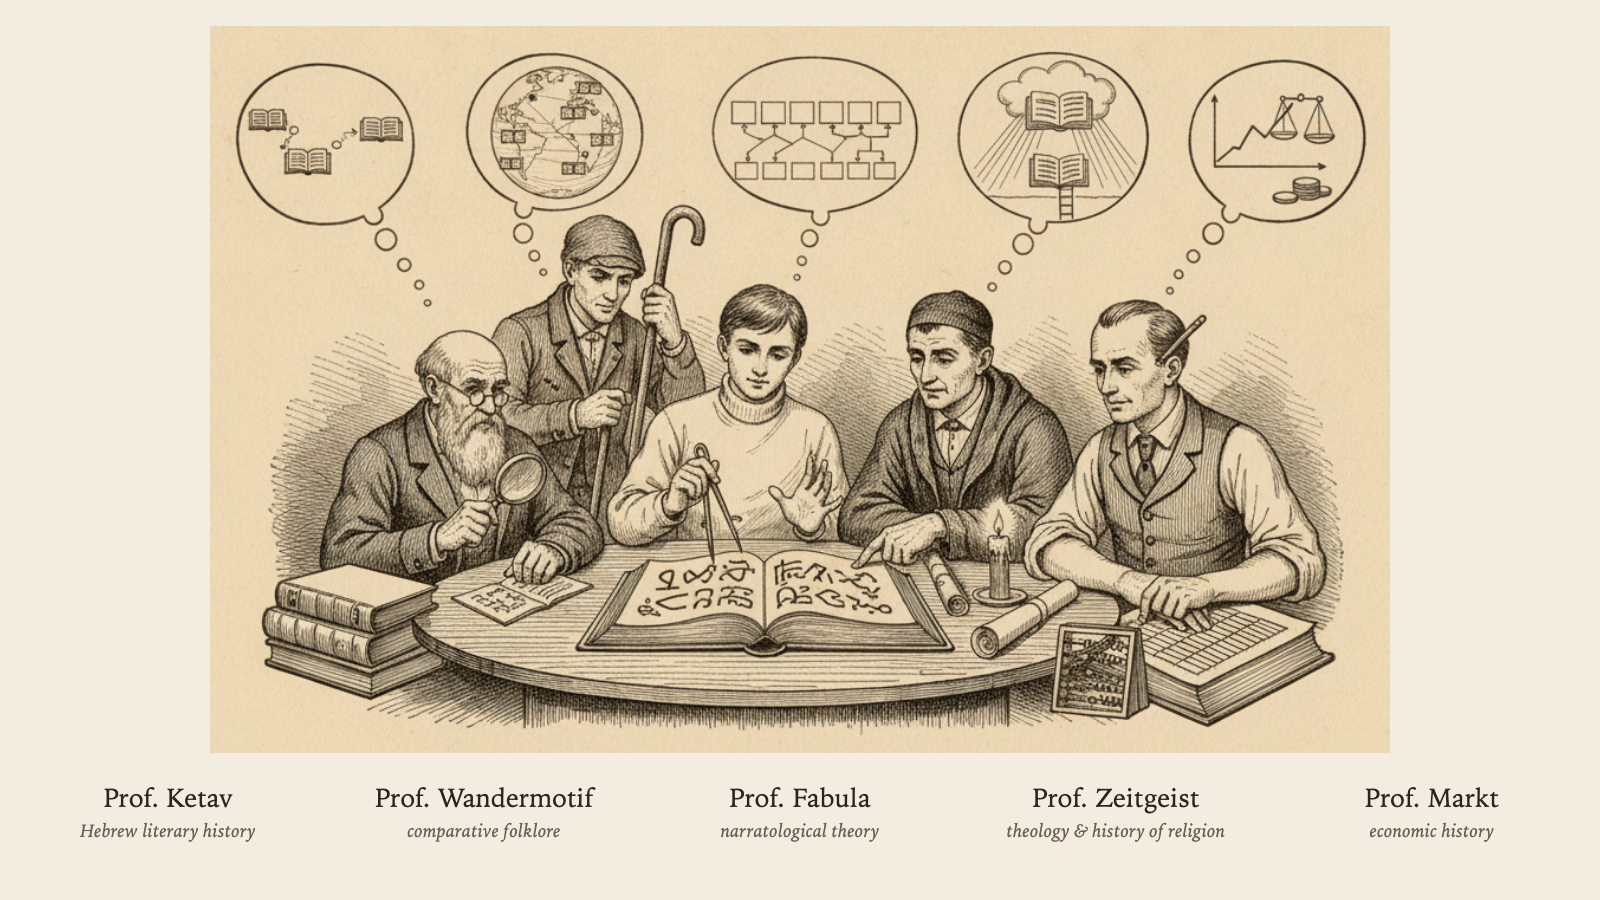
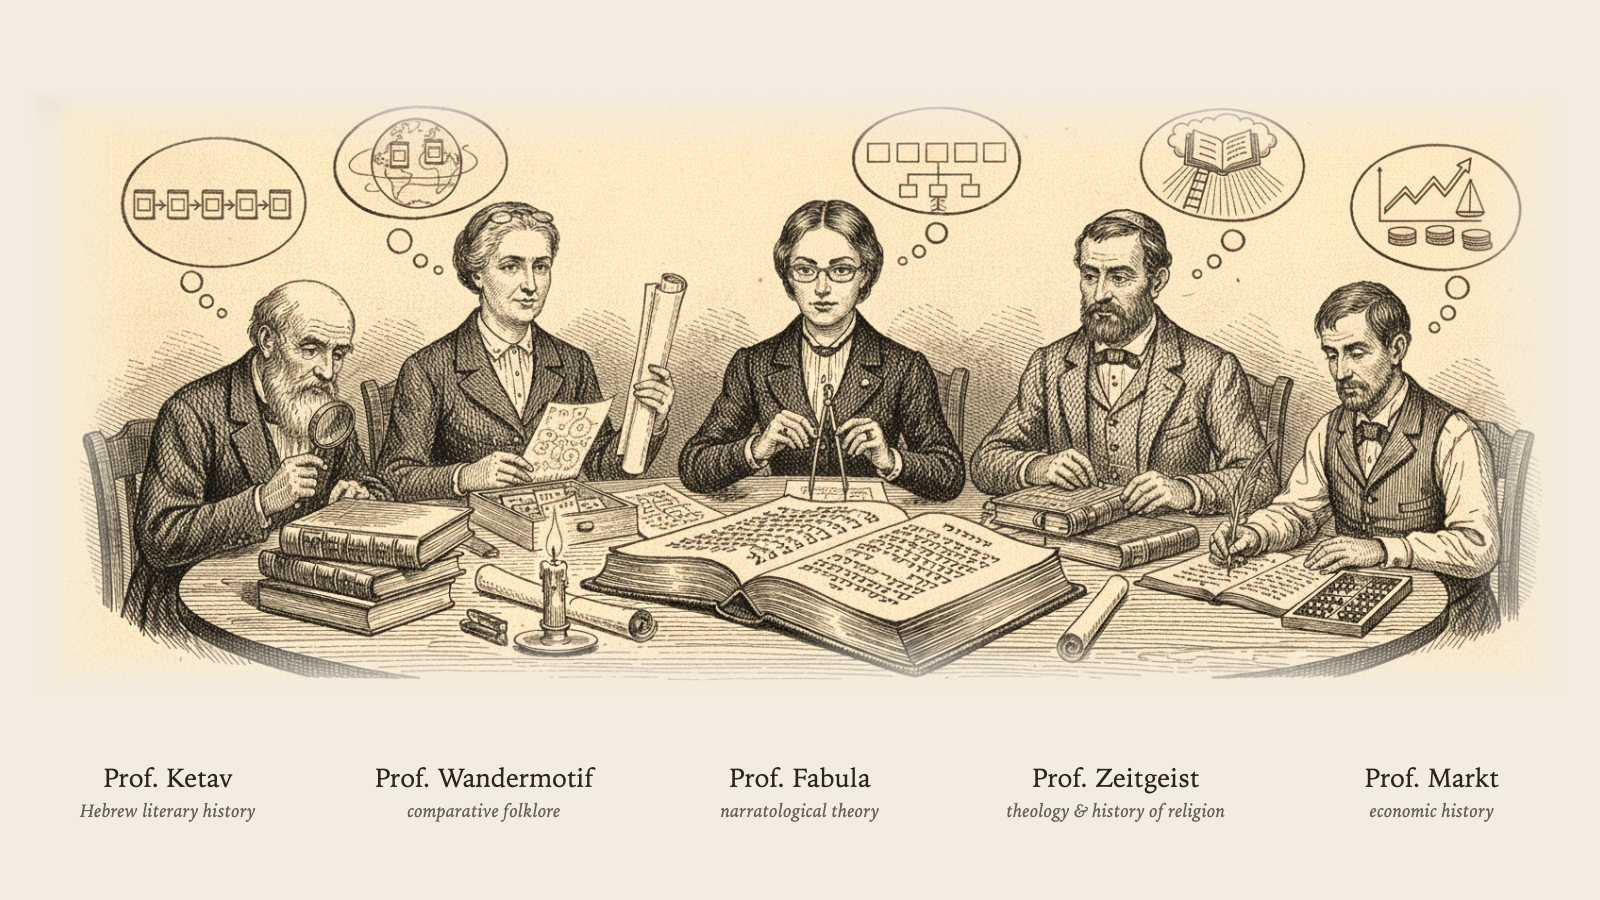
Personas slide: academic middle three, two women, Hasidic edition on the table
Three changes asked for after the first version:
  - the three middle scholars now read as modern academics, not Victorians
  - Fabula (narratology, centre) and Wandermotif (folklore) are women
  - the open book is now a Hasidic stories edition: thick worn leather,
    dense square Hebrew type in justified blocks, right to left

crops/chapter.jpg -- a real page from the print-machine slide -- is passed
to the model as a second reference image so it copies the actual typography
rather than inventing squiggles.

Pipeline: edit_table2.py (g1, g2) makes the people and book changes; g2 is
the keeper but its thought bubbles drifted, so edit_table3.py (h1, h2)
restores the five emblems in order; fix5.py (k1) puts the graph and coins
back in the economist's bubble. k1_plate.png is k1 with its paper lifted to
the slide cream and its edges feathered, so the plate no longer sits in a
visible rectangle (the CSS multiply blend is dropped for the same reason).

Gemini 2.5 Flash Image, 5 more images, ~$0.20; ~$0.43 for the slide so far.

diff --git a/talks/paris-inalco-2026-11/robot/table_slide.html b/talks/paris-inalco-2026-11/robot/table_slide.html
@@ -5,28 +5,23 @@
   html,body{margin:0;background:#F3EDE1}
   .slide{width:1600px;height:900px;position:relative;background:#F3EDE1;overflow:hidden;
          font-family:"Iowan Old Style","Palatino Linotype",Palatino,"Hoefler Text",Georgia,serif}
-  /* f2_crop.png is f2.png trimmed to its drawn content (998x615), so it can simply be
-     placed: no clipping band, nothing of the scene is cut off. */
-  .plate{position:absolute;left:50%;top:26px;transform:translateX(-50%);width:1180px;
-         mix-blend-mode:multiply}
-  .name{position:absolute;top:782px;text-align:center;width:310px;color:#2A2520;
+  /* k1_plate.png is k1.png with its paper lifted to the slide cream and its edges
+     feathered, so the plate melts into the slide instead of sitting in a rectangle.
+     Natively panoramic (1632x637, 2.56:1) and already fills its frame,
+     so it needs no crop: placed at 1540 wide it is 601 tall. */
+  .plate{position:absolute;left:50%;top:92px;transform:translateX(-50%);width:1540px;
+}
+  .name{position:absolute;top:762px;text-align:center;width:310px;color:#2A2520;
         font-size:26px;line-height:1.26;letter-spacing:.01em}
   .name i{display:block;font-size:18.5px;color:#6B6054;font-style:italic;margin-top:4px}
-  /* author names lettered onto the volumes on the table */
-  .auth{position:absolute;color:#4A4038;font-size:15px;font-style:italic;
-        letter-spacing:.05em;mix-blend-mode:multiply}
 </style></head><body>
 <div class="slide">
-  <img class="plate" src="f2_crop.png" alt="Five scholars examining one open book">
+  <img class="plate" src="k1_plate.png" alt="Five scholars examining one open Hasidic stories edition">
 
   <div class="name" style="left:13px">Prof. Ketav<i>Hebrew literary history</i></div>
   <div class="name" style="left:329px">Prof. Wandermotif<i>comparative folklore</i></div>
   <div class="name" style="left:645px">Prof. Fabula<i>narratological theory</i></div>
   <div class="name" style="left:961px">Prof. Zeitgeist<i>theology &amp; history of religion</i></div>
   <div class="name" style="left:1277px">Prof. Markt<i>economic history</i></div>
-
-  <!-- Author names were tried on the book spines (Genette / Propp / Braudel) but the
-       engraved cross-hatching makes type that small unreadable at slide size, and the
-       thought bubbles already carry each point of view. Left out deliberately. -->
 </div>
 </body></html>

diff --git a/talks/paris-inalco-2026-11/robot/horse_slide.html b/talks/paris-inalco-2026-11/robot/horse_slide.html
@@ -1,0 +1,37 @@
+<!doctype html>
+<html><head><meta charset="utf-8">
+<title>Shivhei ha-Besht 11 — the stolen horse</title>
+<style>
+  html,body{margin:0;background:#F3EDE1}
+  .slide{width:1600px;height:900px;position:relative;background:#F3EDE1;overflow:hidden;
+         font-family:"Iowan Old Style","Palatino Linotype",Palatino,"Hoefler Text",Georgia,serif}
+  /* Four wordless engraved panels (h*_crop.png, each cropped to its drawn scene) in one
+     row. object-fit:contain so no panel is cut; multiply blends plate paper into the cream. */
+  .row{position:absolute;top:182px;left:50%;transform:translateX(-50%);
+       display:flex;gap:28px;align-items:flex-start}
+  .panel{width:352px;display:flex;flex-direction:column;align-items:center}
+  .num{color:#9C9183;font-size:18px;letter-spacing:.3em;margin-bottom:12px}
+  .panel img{display:block;width:352px;height:352px;object-fit:contain;mix-blend-mode:multiply}
+  .cap{margin-top:22px;text-align:center;color:#2A2520;font-size:24px;line-height:1.32}
+  .cap i{display:block;font-size:18px;color:#6B6054;font-style:italic;margin-top:6px}
+  .src{position:absolute;left:0;right:0;bottom:62px;text-align:center;
+       color:#8A7F70;font-size:19px;font-style:italic;letter-spacing:.02em}
+</style></head><body>
+<div class="slide">
+  <div class="row">
+    <div class="panel"><div class="num">I</div>
+      <img src="h1_crop.png" alt="A thief leads the horse out of the stable at night">
+      <div class="cap">The horse is stolen</div></div>
+    <div class="panel"><div class="num">II</div>
+      <img src="h2_crop.png" alt="A word escapes the Besht's mouth and surprises him">
+      <div class="cap">A word is flung from his mouth<i>&ldquo;the horse will be returned to him&rdquo;</i></div></div>
+    <div class="panel"><div class="num">III</div>
+      <img src="h3_crop.png" alt="The brother-in-law mocks him in the street">
+      <div class="cap">A year of mockery<i>&ldquo;Israel, have they returned your horse?&rdquo;</i></div></div>
+    <div class="panel"><div class="num">IV</div>
+      <img src="h4_crop.png" alt="A gentile rides up with a pipe and the horse looks in at the window">
+      <div class="cap">A light for his pipe<i>and at once he got down and returned it</i></div></div>
+  </div>
+  <div class="src">Shivhei ha-Besht, story 11</div>
+</div>
+</body></html>

diff --git a/talks/paris-inalco-2026-11/robot/gen_horse.py b/talks/paris-inalco-2026-11/robot/gen_horse.py
@@ -1,0 +1,94 @@
+"""Four wordless comic panels for Shivhei ha-Besht no. 11 (the stolen horse).
+
+Same house style as m1_press_engraving.png and f2.png (the five-scholars table plate):
+19th-century wood engraving, black ink cross-hatching on warm cream paper.
+NO text is asked of the model -- it renders letters badly. Any caption lives in the
+HTML slide (horse_slide.html) as vector type, exactly as table_slide.html does.
+
+Story (Shivhei-Habesht_0011): the Besht had a horse and it was stolen. R' Gershon
+(his brother-in-law) was rebuking him, and a word was suddenly flung from his mouth:
+the horse will be returned to him. R' Gershon laughed at him and every time he came
+to town he taunted him -- "Israel, have they returned your horse?" For about a year
+there was no horse. In the end a gentile came riding on that same horse and knocked
+at the window to be given a light for his pipe, and he recognised his horse and said,
+is this not my horse -- and at once he got down from the horse and returned it to him.
+"""
+import os, sys, json
+from google import genai
+
+for line in open('/Users/sinairusinek/Documents/GitHub/Hasidigital/.env'):
+    if '=' in line and not line.startswith('#'):
+        k, v = line.strip().split('=', 1)
+        os.environ.setdefault(k, v.strip().strip('"').strip("'"))
+client = genai.Client(api_key=os.environ.get('GEMINI_API_KEY') or os.environ.get('GOOGLE_API_KEY'))
+MODEL = 'gemini-2.5-flash-image'
+HERE = os.path.dirname(os.path.abspath(__file__))
+
+STYLE = (
+    "Style: a 19th-century wood-engraving book plate, black ink cross-hatching and fine parallel line work "
+    "on plain warm cream paper, slight sepia tone, like an illustration in an old book of tales. "
+    "No colour wash, no modern shading, no photographic realism. Respectful and witty, gently humorous, "
+    "never caricature or mockery of any religion or people; the Jewish figures are dignified. "
+    "ABSOLUTELY NO LETTERS, WORDS, NUMBERS, TITLES, LABELS, SPEECH BALLOONS WITH WRITING, CAPTIONS OR "
+    "SIGNATURES ANYWHERE IN THE IMAGE. Book pages and signs must be blank or show only abstract squiggles. "
+    "A single square panel, one scene only, generous cream margins, a thin plain ruled border around the scene."
+)
+
+CAST = (
+    "Recurring cast, drawn identically in every panel so they are recognisable: "
+    "THE BESHT is a sturdy bearded Jewish man of middle age in a long dark coat and a fur-trimmed hat, "
+    "calm and warm-faced. THE BROTHER-IN-LAW is a leaner, taller, clean-featured Jewish scholar with a "
+    "short beard, a dark coat and a broad-brimmed hat, sharp and sceptical. THE HORSE is a single plain "
+    "working horse, light-coated with a dark mane, no markings. Eighteenth-century Eastern European "
+    "small-town setting: wooden houses, shingled roofs, an unpaved lane. "
+)
+
+PANELS = {
+ 'h1': CAST + "PANEL ONE: night in the lane behind a wooden house. A thief in a hooded cloak, seen from "
+   "behind and in shadow so his face is hidden, is leading the horse away out of an open stable door. "
+   "The stable is left empty and dark, the door swinging. Nobody else is present; the house windows are "
+   "shuttered. The mood is quiet theft, moonlight and long cross-hatched shadows. ",
+
+ 'h2': CAST + "PANEL TWO: indoors by day. The Besht stands in mid-speech, and he himself looks startled "
+   "by what he has just said -- his eyebrows raised, one hand half-lifted and open as if the words escaped "
+   "him rather than were chosen. From his open mouth a small wordless emblem flies outward and upward "
+   "through the air like a thing thrown: a tiny engraved picture of the horse, inside a small round "
+   "medallion trailed by a few little circles, as a thought or utterance is drawn in old prints. "
+   "The brother-in-law stands opposite with his arms folded, in the middle of rebuking him. "
+   "Emphasise the Besht's surprise at his own mouth. ",
+
+ 'h3': CAST + "PANEL THREE: the lane in the small town, broad daylight, a few townsfolk passing. "
+   "The brother-in-law has stopped the Besht in the street and is mocking him: he is laughing openly, "
+   "head tipped back, one hand on his hip and the other making a wide sweeping gesture at the empty road "
+   "beside the Besht where a horse plainly is not. Behind him, over his shoulder, floats a small thought "
+   "bubble in the same engraved line style containing nothing but an empty halter and a bare patch of "
+   "ground -- the absent horse. The Besht stands quietly, unruffled, taking it. ",
+
+ 'h4': CAST + "PANEL FOUR, the punchline, the richest panel: the interior of the Besht's house seen from "
+   "inside, with a large open window in the back wall. Framed in that window, outside, a peasant gentile "
+   "in a sheepskin coat and a cap sits mounted on the horse, leaning in and holding out a long clay pipe, "
+   "asking for a light; he looks ordinary and friendly, not villainous. The horse's head and neck come "
+   "right in through the window opening into the room. The Besht, inside, has risen and is face to face "
+   "with the horse, the two of them looking straight at each other with unmistakable mutual delight -- "
+   "the man smiling broadly with both hands coming up to the horse's muzzle, the horse's ears pricked "
+   "forward, its head stretched eagerly toward him, an almost smiling horse. Beside them the "
+   "brother-in-law stands frozen in astonishment: eyes wide, mouth open, one hand half-raised, his "
+   "sceptical posture collapsed into bewilderment and dawning respect. He looks at the Besht, not at "
+   "the window. A candle or hearth gives the light that was asked for. ",
+}
+
+which = sys.argv[1:] or list(PANELS)
+log = []
+for name in which:
+    r = client.models.generate_content(model=MODEL, contents=PANELS[name] + STYLE)
+    u = r.usage_metadata
+    saved = False
+    for part in r.candidates[0].content.parts:
+        if getattr(part, 'inline_data', None) and part.inline_data.data:
+            open(os.path.join(HERE, name + '.png'), 'wb').write(part.inline_data.data)
+            saved = True
+    rec = dict(name=name, saved=saved, prompt_tokens=u.prompt_token_count,
+               output_tokens=u.candidates_token_count, total=u.total_token_count)
+    print(json.dumps(rec))
+    log.append(rec)
+json.dump(log, open(os.path.join(HERE, 'usage_horse.json'), 'w'), indent=1)

diff --git a/talks/paris-inalco-2026-11/robot/edit_table2.py b/talks/paris-inalco-2026-11/robot/edit_table2.py
@@ -1,0 +1,83 @@
+"""Second revision of the personas plate (f2.png -> g*.png).
+
+Three changes asked for:
+  1. the middle three scholars should read as more academic
+  2. Fabula (centre, narratology) and one other should be women
+  3. the open book in the middle should look like a Hasidic stories edition,
+     like the pages shown in the print-machine slide
+
+The real Hasidic edition page (crops/chapter.jpg) is passed in as a second
+reference image so the model sees the actual typography: square Hebrew type,
+a centred heading, a justified block beneath, reading right to left.
+"""
+import os, sys, json
+from google import genai
+from google.genai import types
+
+for line in open('/Users/sinairusinek/Documents/GitHub/Hasidigital/.env'):
+    if '=' in line and not line.startswith('#'):
+        k, v = line.strip().split('=', 1)
+        os.environ.setdefault(k, v.strip().strip('"').strip("'"))
+client = genai.Client(api_key=os.environ.get('GEMINI_API_KEY') or os.environ.get('GOOGLE_API_KEY'))
+HERE = os.path.dirname(os.path.abspath(__file__))
+plate = open(os.path.join(HERE, 'f2.png'), 'rb').read()
+page = open(os.path.join(HERE, 'crops', 'chapter.jpg'), 'rb').read()
+
+KEEP = ("Edit the FIRST image, the wood-engraving of five scholars around a round table. "
+        "Keep the whole composition: five scholars in an arc around one big open book, all five leaning in and "
+        "examining it, five separate thought bubbles above them joined by trails of little circles, the stacks of "
+        "folio volumes, the candle, the scrolls, the ledger and the abacus. "
+        "Keep exactly the same 19th-century wood-engraving style: black ink cross-hatching and fine parallel line "
+        "work on warm cream paper, slight sepia tone. Keep the five thought bubbles and their contents unchanged: "
+        "(1) a chain of linked books, (2) a globe with a repeated motif, (3) boxes joined by arrows above a "
+        "branching tree, (4) rays from a cloud onto a book with a ladder, (5) a rising graph with scales and coins. ")
+
+BOOK = ("THE BOOK IN THE MIDDLE. Redraw the large open book at the centre of the table so it is clearly a traditional "
+        "Hebrew religious book, a Hasidic stories edition, engraved in the same style. Use the SECOND image as the "
+        "reference for how its pages must look. Both open pages are set in dense SQUARE HEBREW LETTERS, in solid "
+        "justified blocks of small type that run RIGHT TO LEFT, with a short centred heading line in larger Hebrew "
+        "letters at the top of each page and a thin ruled line under the heading. The block of text should be a "
+        "single dense column per page, with even margins, like a page of a 19th-century Hebrew book. "
+        "The volume is thick, bound in worn dark leather with raised bands and blind-tooled borders on the covers, "
+        "its pages yellowed and slightly cockled at the edges. Do NOT draw Latin letters, and do NOT draw the "
+        "abstract squiggles that are there now: the page must read, at a glance, as Hebrew print. ")
+
+PEOPLE = ("THE THREE MIDDLE SCHOLARS. Make the three central figures look like modern university academics rather "
+          "than Victorian gentlemen or countryfolk, while keeping them in the same engraved style and the same "
+          "seats and poses. "
+          "The SECOND figure from the left, now a traveller in a cap with a walking staff, becomes a WOMAN in her "
+          "fifties, a professor of comparative folklore: short practical greying hair, a plain dark blazer over a "
+          "simple blouse, reading glasses pushed up on her head; replace the shepherd's crook entirely with a "
+          "rolled map held upright in one hand, and leave the open card-index drawer in front of her. "
+          "The THIRD figure, in the centre, now a young person in a pale turtleneck holding dividers, becomes a "
+          "WOMAN in her forties, a professor of narratological theory: dark hair gathered back, a well-cut dark "
+          "jacket, angular modern spectacles; she still holds the pair of dividers over the open book, and a sheet "
+          "of diagrams lies beside her. "
+          "The FOURTH figure, the scholar of theology and history of religion, stays a man but becomes a modern "
+          "academic: keep his skullcap and his beard, but put him in a tweed jacket with a buttoned waistcoat "
+          "instead of the shapeless robe, with the heavy clasped tome and the candle still at his place. "
+          "All three should look scholarly, alert and dignified. Keep the old bearded man with the magnifying "
+          "glass on the far left and the waistcoated economic historian on the far right exactly as they are. ")
+
+NOTEXT = ("No Latin letters, no words, no numbers, no labels and no captions anywhere in the image. The ONLY "
+          "writing anywhere is the Hebrew print on the two open pages of the central book, and on the spines of "
+          "the other books, which may show a few small Hebrew letters. Everything else stays blank.")
+
+V = {
+ 'g1': KEEP + BOOK + PEOPLE + NOTEXT,
+ 'g2': KEEP + BOOK + PEOPLE +
+       "Draw the central open book larger and tilted slightly towards the viewer, so both Hebrew pages are clearly "
+       "legible as Hebrew print at a glance and the book is unmistakably the focus of the picture. " + NOTEXT,
+}
+for name in (sys.argv[1:] or list(V)):
+    r = client.models.generate_content(
+        model='gemini-2.5-flash-image',
+        contents=[types.Part.from_bytes(data=plate, mime_type='image/png'),
+                  types.Part.from_bytes(data=page, mime_type='image/jpeg'),
+                  V[name]])
+    u = r.usage_metadata; ok = False
+    for p in r.candidates[0].content.parts:
+        if getattr(p, 'inline_data', None) and p.inline_data.data:
+            open(os.path.join(HERE, f'{name}.png'), 'wb').write(p.inline_data.data); ok = True
+    print(json.dumps(dict(name=name, saved=ok, prompt_tokens=u.prompt_token_count,
+                          output_tokens=u.candidates_token_count)))

diff --git a/talks/paris-inalco-2026-11/robot/edit_table3.py b/talks/paris-inalco-2026-11/robot/edit_table3.py
@@ -1,0 +1,48 @@
+"""Third pass: g2 has the right people and the right book, but its thought bubbles
+drifted -- the chain-of-editions and the globe were lost, and the diagram and the
+rays-from-a-cloud ended up on the wrong heads. Restore the five emblems in order,
+left to right, without touching the figures or the book."""
+import os, sys, json
+from google import genai
+from google.genai import types
+
+for line in open('/Users/sinairusinek/Documents/GitHub/Hasidigital/.env'):
+    if '=' in line and not line.startswith('#'):
+        k, v = line.strip().split('=', 1)
+        os.environ.setdefault(k, v.strip().strip('"').strip("'"))
+client = genai.Client(api_key=os.environ.get('GEMINI_API_KEY') or os.environ.get('GOOGLE_API_KEY'))
+HERE = os.path.dirname(os.path.abspath(__file__))
+src = open(os.path.join(HERE, sys.argv[1] if len(sys.argv) > 1 else 'g2.png'), 'rb').read()
+
+P = ("Edit this wood-engraving. Keep EVERY figure exactly as drawn: the old bearded man with the magnifying glass, "
+     "the grey-haired woman in the blazer holding the rolled map, the dark-haired woman in spectacles and a dark "
+     "jacket holding the dividers at the centre, the bearded man in the skullcap and tweed, and the man in the "
+     "waistcoat on the right. Keep their faces, clothes, hands and poses unchanged. Keep the big open Hebrew book "
+     "at the centre of the table with its dense square Hebrew type, and keep the candle, the scrolls, the stacks "
+     "of books, the card index, the quill and the abacus. Keep the same 19th-century black-ink wood-engraving "
+     "style on warm cream paper. "
+     "Change ONLY the five thought bubbles above the five heads. There must be exactly five bubbles, one per "
+     "person, each joined to its own head by a trail of small circles, and each must contain this emblem, drawn "
+     "as a simple engraved line emblem and NOTHING else. From left to right: "
+     "(1) above the old bearded man: a row of five small closed books linked one to the next by short lines, like "
+     "a genealogy or a chain of editions; "
+     "(2) above the woman with the map: a globe of the earth with the same small identical symbol repeated on "
+     "three different continents, joined by faint curved lines; "
+     "(3) above the woman with the dividers: an abstract story diagram, a single row of five empty rectangles "
+     "joined left to right by arrows, with a small branching tree beneath it; "
+     "(4) above the bearded man in the skullcap: rays of light descending from a cloud onto a small open book, "
+     "with a ladder rising from the book towards the cloud; "
+     "(5) above the man in the waistcoat: a rising zig-zag line graph with an arrow at its end, a pair of balance "
+     "scales, and three small stacked coins. "
+     "No letters, words, numbers or captions inside the bubbles or anywhere else in the image, except the Hebrew "
+     "print already on the book's pages, which must stay as it is.")
+
+for name in (sys.argv[2:] or ['h1', 'h2']):
+    r = client.models.generate_content(model='gemini-2.5-flash-image',
+                                       contents=[types.Part.from_bytes(data=src, mime_type='image/png'), P])
+    u = r.usage_metadata; ok = False
+    for p in r.candidates[0].content.parts:
+        if getattr(p, 'inline_data', None) and p.inline_data.data:
+            open(os.path.join(HERE, f'{name}.png'), 'wb').write(p.inline_data.data); ok = True
+    print(json.dumps(dict(name=name, saved=ok, prompt_tokens=u.prompt_token_count,
+                          output_tokens=u.candidates_token_count)))

diff --git a/talks/paris-inalco-2026-11/robot/fix5.py b/talks/paris-inalco-2026-11/robot/fix5.py
@@ -1,0 +1,29 @@
+"""h2 is the keeper, but its fifth bubble shows only balance scales; the economic
+historian needs his rising graph and coins back. Touch that one bubble only."""
+import os, sys, json
+from google import genai
+from google.genai import types
+for line in open('/Users/sinairusinek/Documents/GitHub/Hasidigital/.env'):
+    if '=' in line and not line.startswith('#'):
+        k, v = line.strip().split('=', 1); os.environ.setdefault(k, v.strip().strip('"').strip("'"))
+client = genai.Client(api_key=os.environ.get('GEMINI_API_KEY') or os.environ.get('GOOGLE_API_KEY'))
+HERE = os.path.dirname(os.path.abspath(__file__))
+src = open(os.path.join(HERE, 'h2.png'), 'rb').read()
+P = ("Edit this wood-engraving. Change ONE thing and nothing else: the fifth thought bubble, the rightmost one, "
+     "above the man in the waistcoat at the right-hand end of the table. It currently contains only a pair of "
+     "balance scales. Redraw the contents of that one bubble so it contains three things together, drawn small as "
+     "simple engraved line emblems: a rising zig-zag line graph with an arrow at its upper end, a pair of balance "
+     "scales beside it, and three small stacked coins beneath. Keep that bubble's outline and its trail of little "
+     "circles exactly where they are. "
+     "Everything else in the picture must stay pixel-for-pixel as it is: all five people, their faces, clothes and "
+     "poses, the other four thought bubbles and their contents, the open Hebrew book, the table and every object "
+     "on it, and the same black-ink wood-engraving style on warm cream paper. "
+     "No letters, words or numbers anywhere, except the Hebrew already printed on the book's pages.")
+for name in (sys.argv[1:] or ['k1']):
+    r = client.models.generate_content(model='gemini-2.5-flash-image',
+        contents=[types.Part.from_bytes(data=src, mime_type='image/png'), P])
+    u = r.usage_metadata; ok = False
+    for p in r.candidates[0].content.parts:
+        if getattr(p,'inline_data',None) and p.inline_data.data:
+            open(os.path.join(HERE, f'{name}.png'),'wb').write(p.inline_data.data); ok = True
+    print(json.dumps(dict(name=name, saved=ok, prompt_tokens=u.prompt_token_count, output_tokens=u.candidates_token_count)))
